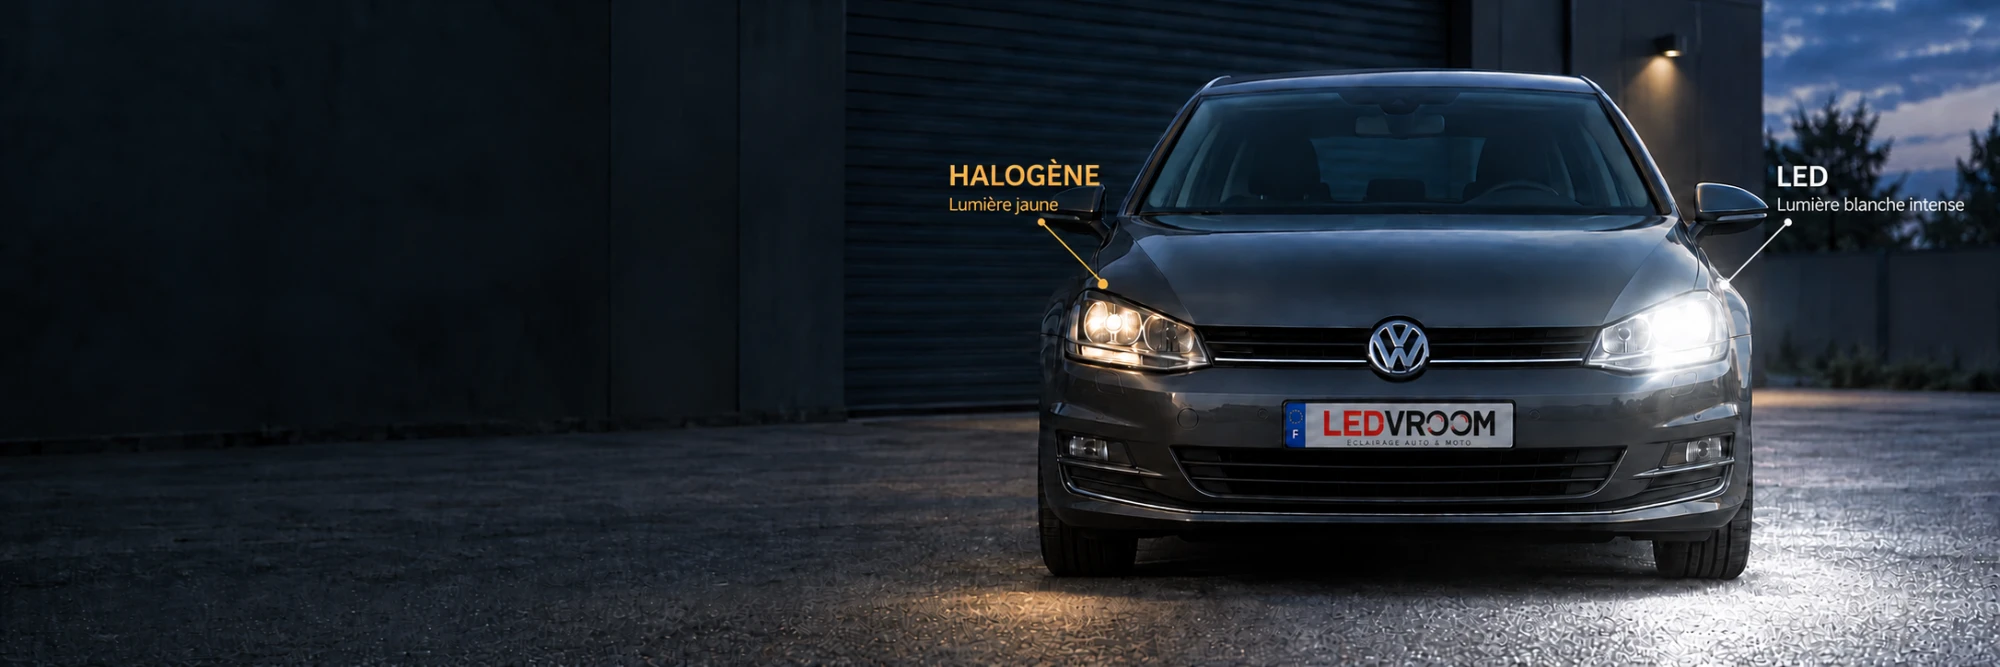
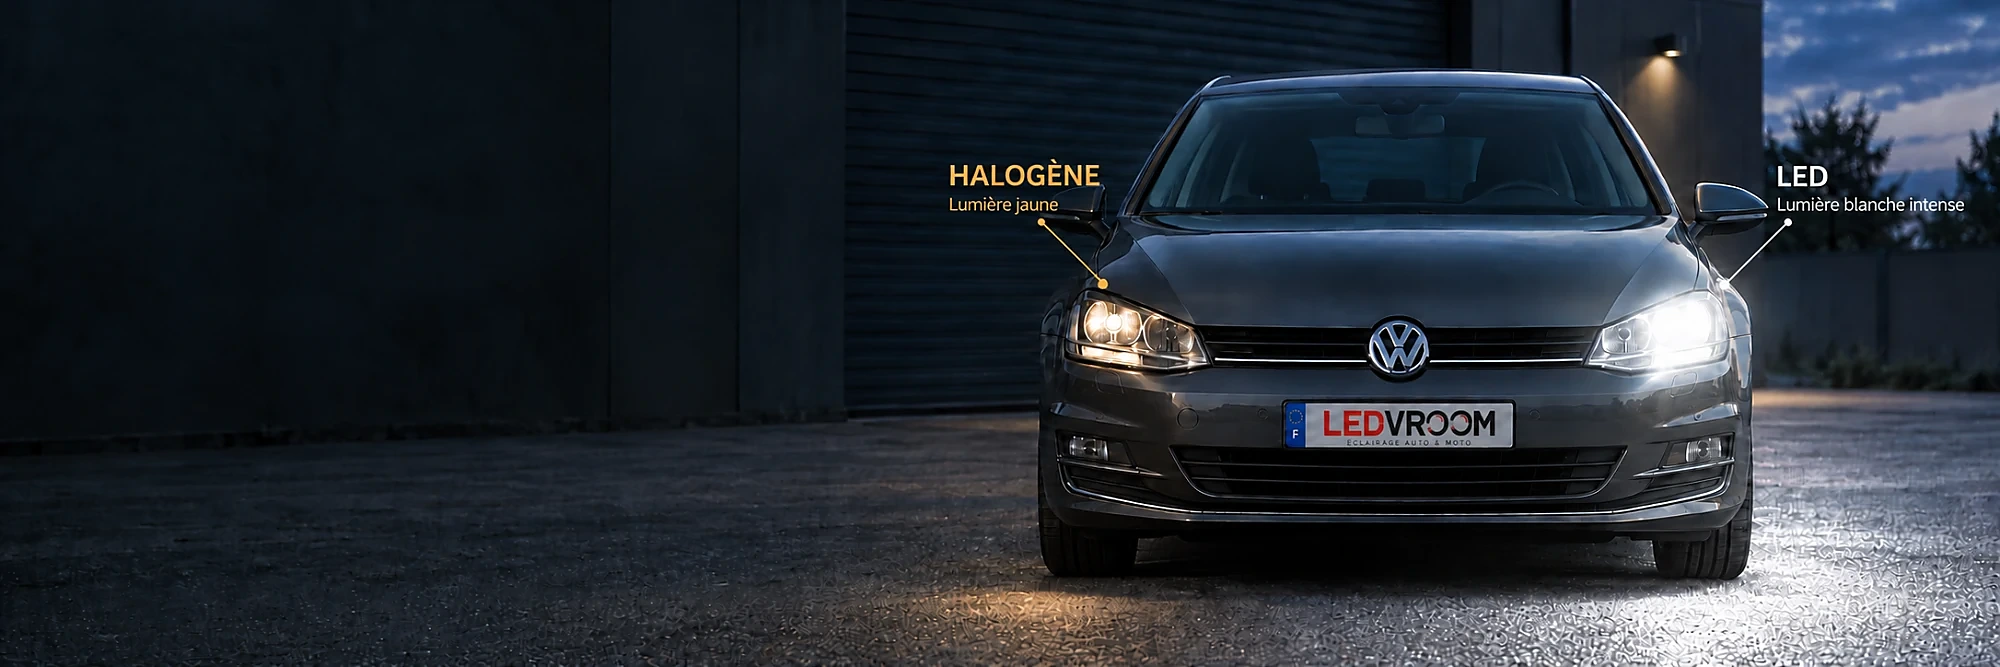
fix(accueil): la photo du bandeau est pré-accentuée, faute de définition
Le flou reproché ne venait ni du code ni de la compression. Mesuré : le
fichier contient bien du détail réel à 2000 px — variance du laplacien de
164 contre 114 pour la photo qu'il remplace, et elle tombe à 56 si on le
réduit de moitié avant de le remonter, ce qu'un fichier agrandi depuis
plus petit ne ferait pas. Le fichier est bon.

C'est la place qu'on lui donne qui ne l'est pas. Le bandeau occupe toute
la largeur de la fenêtre et un écran à double densité réclame deux pixels
pour un : 2880 px à 1440 px de fenêtre, 3840 à 1920. L'image est donc
étirée d'un facteur 1,44 à 1,92, et aucun réglage de compression n'y
change rien — le serveur transmet déjà le fichier quasi intact.

La source en 3840 px n'existe pas. À défaut, le fichier est pré-accentué
avant dépôt : masque flou de rayon 1,0, intensité 90 %, seuil 3, puis
WebP qualité 93. Mesurée APRÈS étirement, c'est-à-dire sur ce que l'œil
reçoit, la variance du laplacien passe de 52 à 112.

Le seuil est ce qui rend l'opération sûre. Il laisse les aplats intacts —
sur la paroi sombre à gauche, l'écart-type reste à 1,61 avant comme après,
donc aucun grain ajouté dans les dégradés sombres — et ne travaille que
sur les contours. Les trois intensités essayées ont été comparées à la
taille réelle d'affichage : la plus forte (130 %) cerne les phares d'un
halo et fait grésiller les arbres du fond, la plus douce (60 %) ne rend
pas la légende « Lumière blanche intense » lisible. Le fichier passe de
134 à 163 ko.
[…]

diff --git a/design/prise-de-vue.md b/design/prise-de-vue.md
@@ -11,7 +11,7 @@ n'est une photographie qui nous appartienne.**
 
 | Emplacement | Fichier | Mention portée |
 |---|---|---|
-| Bandeau d'ouverture | `/visuels/hero-golf-nuit.webp` | « Illustration de rendu. » |
+| Bandeau d'ouverture | `/visuels/hero-golf-reperes.webp` | « Illustration de rendu. » |
 | Section « Le détail qui change tout » | `/visuels/comparatif-route.webp` | « Simulation illustrative » peinte dans l'image, plus la mention du bloc |
 | Les six univers | `/demo/univers-*.jpg`, `indicator.png` | « — illustration » dans le texte alternatif |
 
@@ -107,6 +107,51 @@ d'un autre.
 Déposez-les tels quels, sans retouche de luminosité ni de couleur — c'est la
 retouche qui transforme un comparatif en argument fabriqué. Le recadrage, le
 redimensionnement et la conversion se font ensuite côté site.
+
+### La définition, pour les visuels pleine largeur
+
+**3840 px de large pour tout visuel qui occupe toute la largeur de la page**,
+bandeau d'ouverture en tête. Ce n'est pas un confort : un écran à double
+densité réclame deux pixels pour un, donc 2880 px sur une fenêtre de 1440 et
+3840 sur une fenêtre de 1920. En dessous, l'image est étirée et paraît floue
+quelle que soit sa qualité de compression.
+
+Le site n'a rien à régler pour en profiter : `next/image` réclame déjà la
+variante 3840 px et se contente de ce que le fichier contient.
+
+**Mais ne remplacez pas un fichier sous le même nom.** L'optimiseur garde ses
+versions retaillées pendant quatre heures (`minimumCacheTTL`) et ne sait pas
+qu'un fichier a changé : Next n'offre aucun moyen de purger ce cache. Vérifié
+en remplaçant ce visuel — après redémarrage du serveur, il continuait de
+servir l'ancienne image, jusqu'à suppression manuelle de `<distDir>/cache/images`.
+
+Donnez donc au nouveau fichier **un nom neuf** (`hero-golf-reperes-3840.webp`),
+et changez le chemin dans `prisma/demo-data.ts` puis en base avec
+`npm run contenus:accueil -- hero`. Le cache est alors contourné par
+construction, et l'ancien fichier reste disponible le temps de comparer.
+
+### Le palliatif en place sur le bandeau d'ouverture
+
+`/visuels/hero-golf-reperes.webp` ne fait que **2000 px** — c'est la seule
+version disponible. À 1440 px de fenêtre sur écran double densité, il est donc
+étiré d'un facteur 1,44.
+
+Il a pour cette raison été **pré-accentué** avant dépôt, ce qui est l'exception
+à la règle de non-retouche ci-dessus : l'accentuation ne corrige pas un
+comparatif, elle compense un étirement. Masque flou de rayon 1,0, intensité
+90 %, seuil 3, puis WebP qualité 93 :
+
+```
+UnsharpMask(radius=1.0, percent=90, threshold=3)
+```
+
+Le seuil est ce qui rend l'opération sans danger : il laisse les aplats
+intacts — mesuré sur la paroi sombre à gauche, l'écart-type reste à 1,61 avant
+comme après, donc aucun grain ajouté — et ne travaille que sur les contours.
+Mesurée après étirement, la variance du laplacien passe de 52 à 112.
+
+**Ce palliatif saute le jour où une source 3840 px arrive.** Accentuer puis
+agrandir ne remplace pas des pixels qui n'ont jamais été capturés.
 
 Les mentions « illustration » et « simulation de rendu » seront retirées
 emplacement par emplacement, à mesure que chaque visuel de synthèse est
